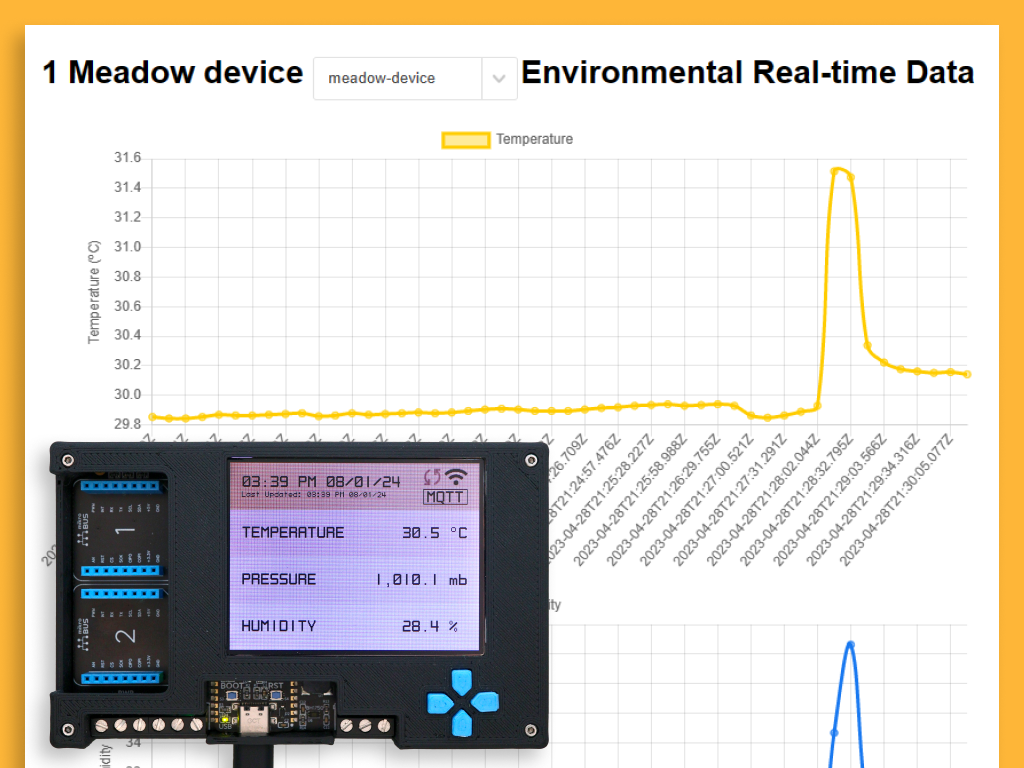
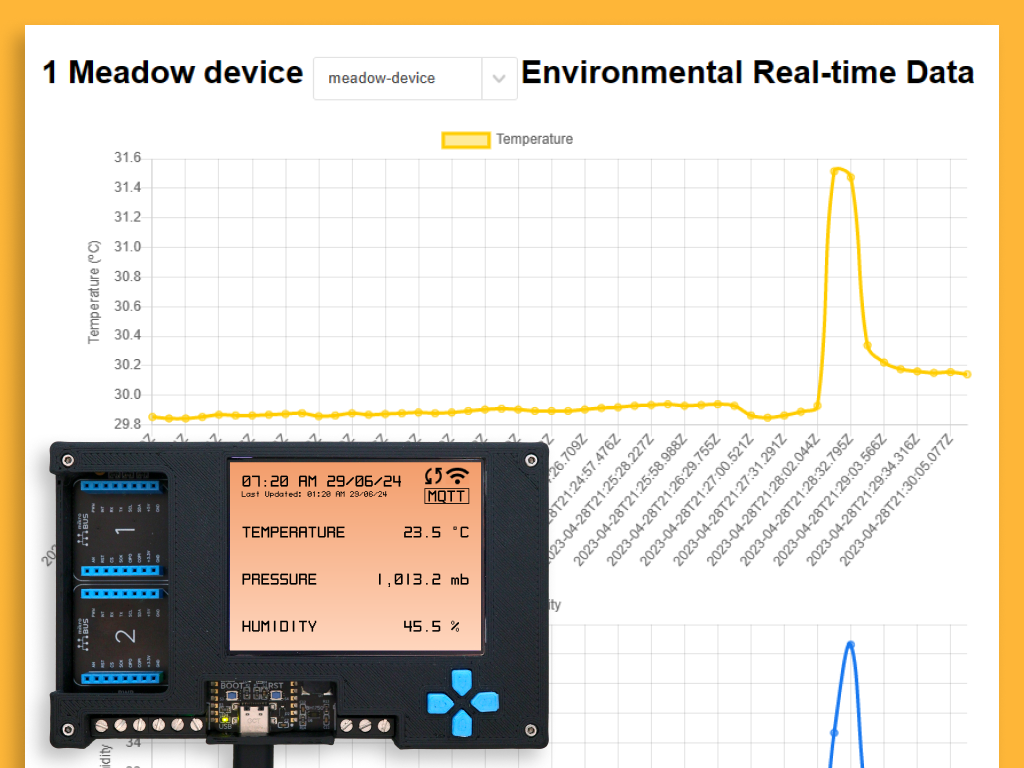
Update cover images

Changed region(s): [[0.2188, 0.5938, 0.4688, 0.875]]

diff --git a/Source/Meadow.Desktop/HMI_Views/MeadowApp.cs b/Source/Meadow.Desktop/HMI_Views/MeadowApp.cs
@@ -10,15 +10,15 @@ public class MeadowApp : App<Desktop>
 {
     public override Task Initialize()
     {
-        Device.Display.Resize(320, 240, 4);
+        Device.Display.Resize(320, 240, 2);
 
         // Default WinForms screen (800,600)
         //_display = new WinFormsDisplay();
         //var views = new RotatingCube(_display);
 
         // Screen size of a ILI9488 display
-        Device.Display.Resize(250, 122);
-        var views = new GnssTrackerConnectivityView(Device.Display);
+        //Device.Display.Resize(250, 122);
+        //var views = new GnssTrackerConnectivityView(Device.Display);
 
         // Screen size of a EPD4IN2bV2 e-paper display
         //Device.Display.Resize(300, 400);
@@ -28,7 +28,7 @@ public class MeadowApp : App<Desktop>
         //var views = new CultivarView(Device.Display);
         //var views = new ProjectLabDemoView(Device.Display);
         //var views = new AtmosphericHMI(Device.Display);
-        //var views = new WifiWeatherV2(Device.Display);
+        var views = new WifiWeatherV2(Device.Display);
 
         _ = Task.Run(() =>
         {
